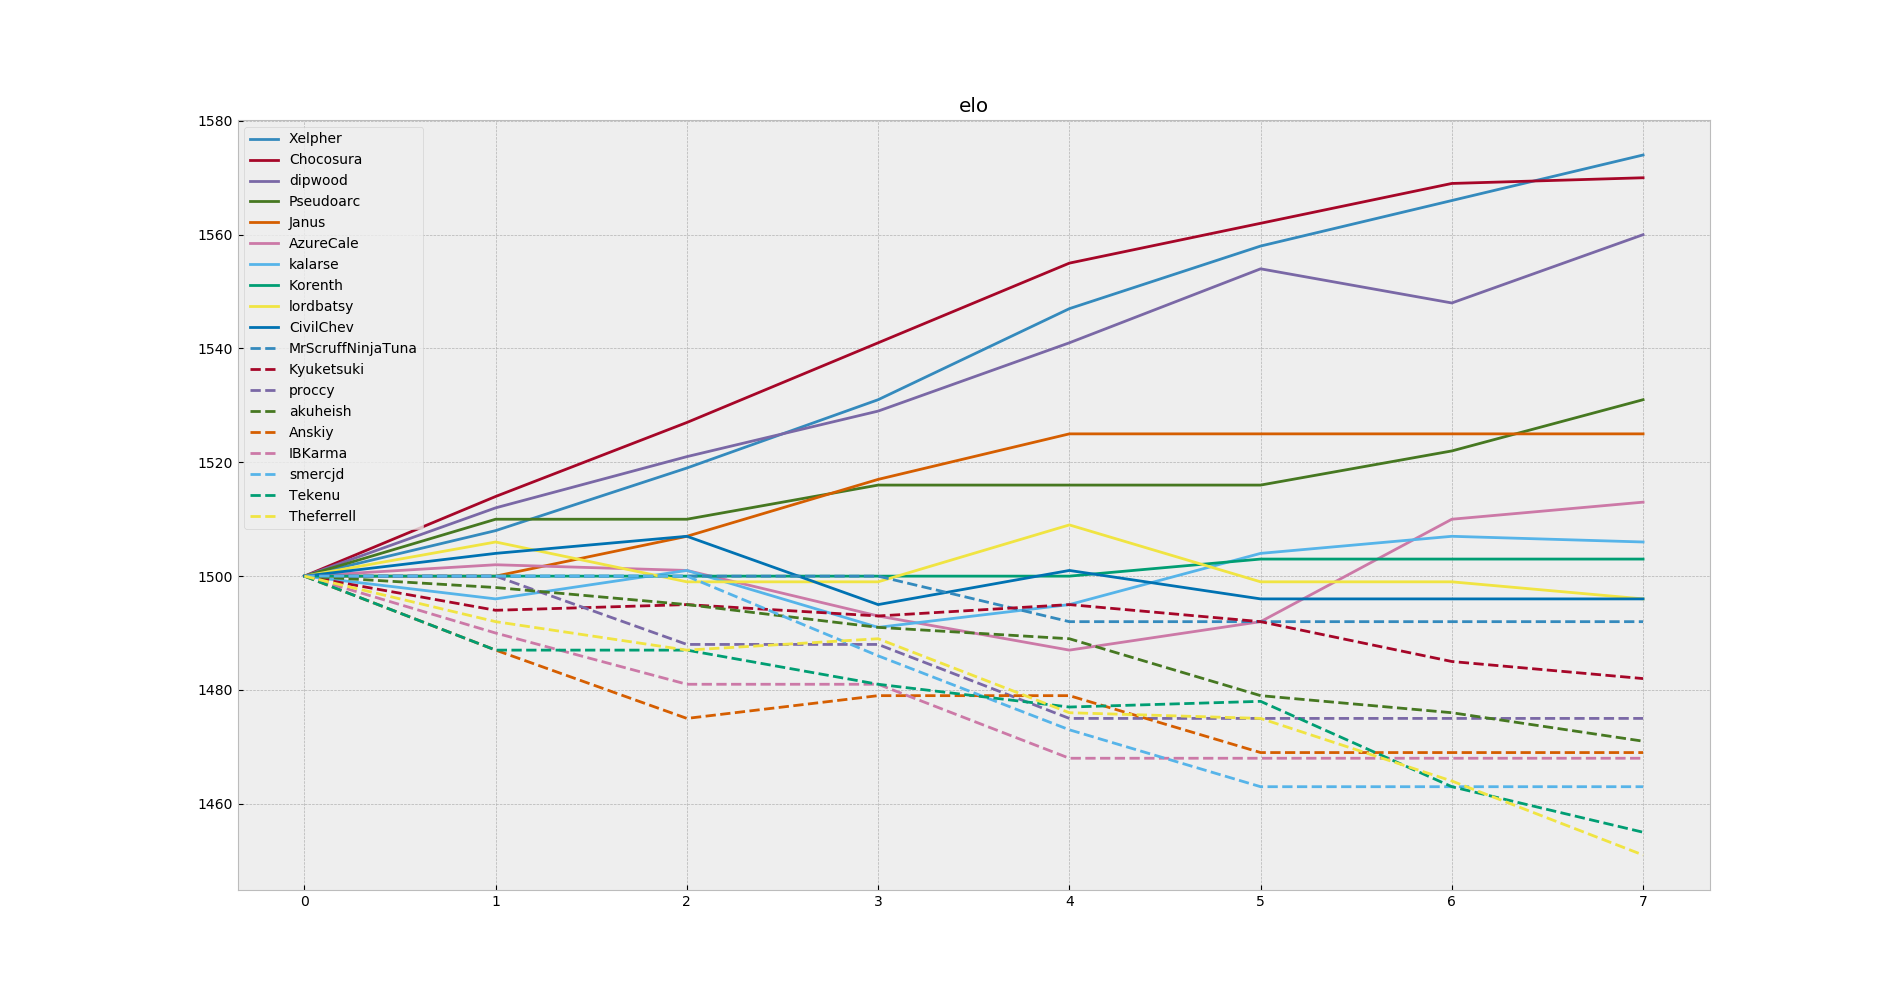
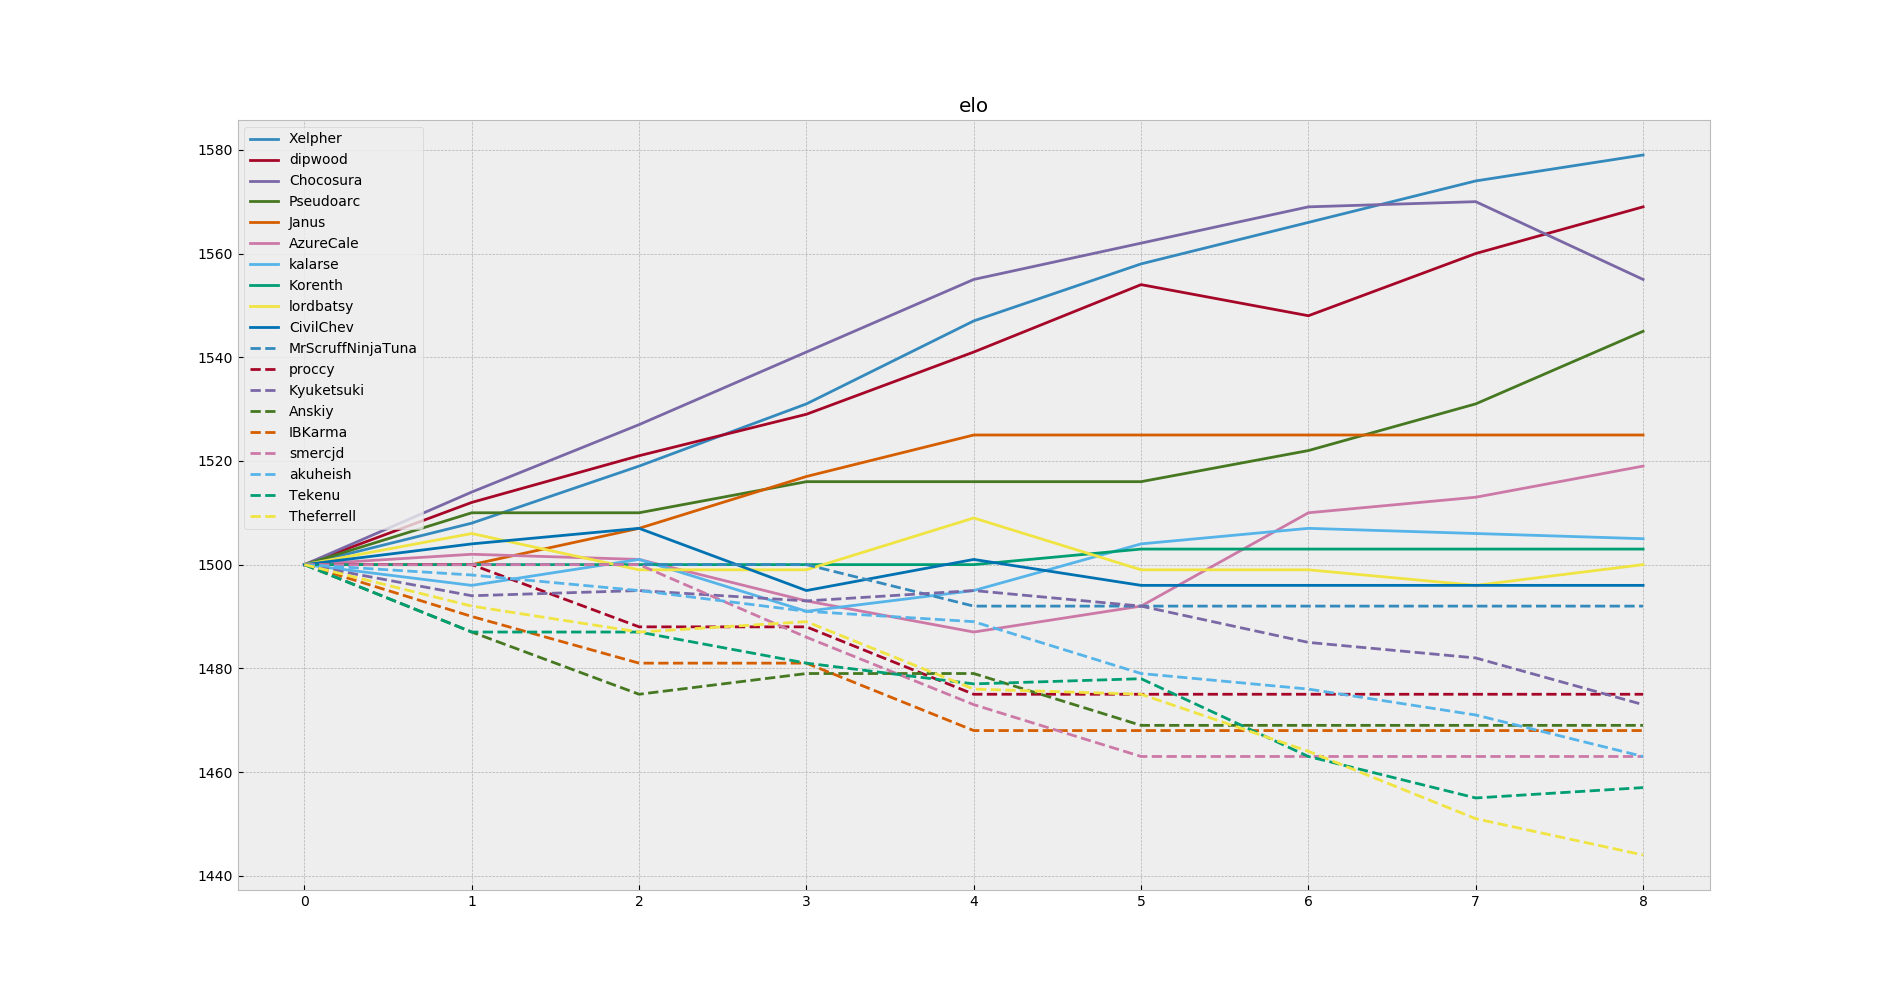
Finalize week 8

diff --git a/races.py b/races.py
@@ -17,5 +17,8 @@ races = [
          "nonparticipants": []},
         {"finishers": ["dipwood", "Xelpher", "Pseudoarc", "Chocosura", "AzureCale", "kalarse", "lordbatsy", "Kyuketsuki", "akuheish", "Tekenu", "Theferrell"],
          "forfeits": [],
+         "nonparticipants": []},
+        {"finishers": ["Pseudoarc","dipwood", "Xelpher", "AzureCale", "lordbatsy", "kalarse", "Tekenu"],
+         "forfeits": ["Chocosura", "akuheish", "Theferrell", "Kyuketsuki"],
          "nonparticipants": []}
         ]
